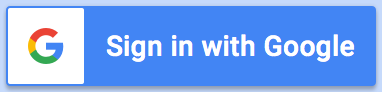
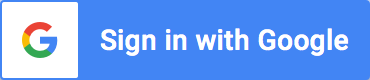
final changes started

diff --git a/src/components/admin/AdminHome.js b/src/components/admin/AdminHome.js
@@ -6,7 +6,7 @@ import Grid from '@material-ui/core/Grid';
 import MultiAxisLine from './charts/UserLogChart.js';
 import PieChart from './charts/TotalRegChart';
 import VerticalBar from './charts/NewRegChart';
-import {BrowserRouter as Router, Route, Switch} from 'react-router-dom';
+import {BrowserRouter as Router, Route, Switch, useRouteMatch ,useLocation} from 'react-router-dom';
 //import { Link } from 'react-router-dom';
 import UserAccManage from './UserAccManage.js';
 import AdvManage from './AdvManage.js';
@@ -18,6 +18,7 @@ import Moderators from './Moderators.js';
 const useStyles = makeStyles((theme) => ({
     root: {
         flexGrow: 1,
+        marginTop: '70px',
         margin: '20px 30px'
     },
     paper: {
@@ -48,7 +49,11 @@ const useStyles = makeStyles((theme) => ({
 }))
 
 function AdminHome() {
+    let match = useRouteMatch();
+    console.log(match)
 
+    let location = useLocation()
+    console.log(location)
     /* const [state, setstate] = useState("");
 
     useEffect(()=>{
@@ -71,6 +76,12 @@ function AdminHome() {
                     <Route path="/components/admin/AdvManage" component={AdvManage}/>
                     <Route path="/components/admin/Moderators" component={Moderators}/>
                 </Switch>
+                {/* <Switch>
+                    <Route path={`${match.path}/`} exact component={AdminHomePage}/>
+                    <Route path={`${match.path}/UserAccManage`} component={UserAccManage}/>
+                    <Route path={`${match.path}/AdvManage`} component={AdvManage}/>
+                    <Route path={`${match.path}/Moderators`} component={Moderators}/>
+                </Switch> */}
             </div>
         </Router>
     );
@@ -78,32 +89,16 @@ function AdminHome() {
 
 const AdminHomePage = () => (
     <div>
-        <center>
+        {/* <center>
             <div className={useStyles().titlecontainer}>
                 <h2 className={useStyles().title}>EduPulse Dashboard</h2>
             </div>
-        </center>
+        </center> */}
         <div className={useStyles().root}>
             <Grid container spacing={3}>
-                <Grid item xs={12} md={9}>
+                <Grid item xs={12} md={12}>
                     <Paper className={useStyles().paper}>
                         <MultiAxisLine/>
-                    </Paper>
-                </Grid>
-                <Grid item xs={12} md={3}>
-                    <Paper className={useStyles().paper} style={{height: '50vh'}}>
-                        <div className={useStyles().userstat}>
-                            <h2 className={useStyles().number}>235</h2>
-                            <h3>Total Live Users</h3>
-                        </div>
-                        <div className={useStyles().userstat} style={{border: '2px solid rgb(255, 99, 132)'}}>
-                            <h2 className={useStyles().number}>210</h2>
-                            <h4>Academic Users</h4>
-                        </div>
-                        <div className={useStyles().userstat} style={{border: '2px solid rgb(54, 162, 235)'}}>
-                            <h2 className={useStyles().number}>120</h2>
-                            <h4>General Users</h4>
-                        </div>
                     </Paper>
                 </Grid>
                 <Grid item xs={12} md={4}>

diff --git a/src/components/admin/AdminNav.js b/src/components/admin/AdminNav.js
@@ -12,7 +12,7 @@ import MenuIcon from '@material-ui/icons/Menu';
 //import AccountCircle from '@material-ui/icons/AccountCircle';
 //import NotificationsIcon from '@material-ui/icons/Notifications';
 import Img1 from '../../assets/EduPulse.png';
-
+import Button from '@material-ui/core/Button';
 import clsx from 'clsx';
 import Drawer from '@material-ui/core/Drawer';
 import List from '@material-ui/core/List';
@@ -26,7 +26,6 @@ import AssignmentIcon from '@material-ui/icons/Assignment';
 //import { BrowserRouter as Router,Switch,Route } from 'react-router-dom';
 import {Link} from 'react-router-dom';
 import PersonIcon from '@material-ui/icons/Person';
-import {GoogleLogOut} from '../OAuth/googleAuth'
 
 const useStyles = makeStyles((theme) => ({
     root: {
@@ -144,7 +143,7 @@ export default function AdminNav() {
                 </Link>
 
                 <Link to="/components/admin/UserAccManage" style={{textDecoration: 'none', color: 'black'}}>
-                    <ListItem button key={'User Accounts'}>
+                    <ListItem button key={'User Accounts'} onClick={()=>{}}>
                         <ListItemIcon><SupervisorAccountIcon/></ListItemIcon>
                         <ListItemText primary={'User Accounts'}/>
                     </ListItem>
@@ -167,10 +166,14 @@ export default function AdminNav() {
             </List>
             <Divider/>
             <center>
-                {/* <Link to="/" style={{ textDecoration: 'none',color:'black' }}>
-        <Button variant="contained" color="secondary" style={{marginTop:'50vh'}}>Logout</Button>
-        </Link> */}
-                <GoogleLogOut/>
+                
+                <Button variant="outlined" color="error" onClick={(e)=>{
+                    e.preventDefault();
+                    window.location.href='http://localhost:9000/openid/logout'
+                    }}>
+                    Logout
+                </Button>
+                
             </center>
 
         </div>

diff --git a/src/components/navbar.js b/src/components/navbar.js
@@ -16,10 +16,9 @@ import Backdrop from '@material-ui/core/Backdrop';
 import {animated, useSpring} from 'react-spring'; // web.cjs is required for IE 11 support
 import {Icon} from '@material-ui/core';
 import AccountCircleIcon from '@material-ui/icons/AccountCircle';
-import {GoogleAuth} from './OAuth/googleAuth'
-import MsAuth from './OAuth/msAuth.js'
 import googleNormal from '../assets/buttons/google_signin_normal.png';
 import Msbutton from '../assets/buttons/ms-button.png';
+import googleFocus from '../assets/buttons/google_signin_pressed.png';
 
 import config from '../config/config'
 
@@ -256,7 +255,10 @@ export default function Navigationbar() {
                                         backgroundColor: '#DFDAE8',
                                         cursor: "pointer"
                                     }}>
-                                <img src={googleNormal} alt="google button" style={{width: '218px'}}/>
+                                <img src={googleNormal} alt="google button" style={{width: '218px'}}
+                                    onMouseOver={e => (e.currentTarget.src = googleFocus)}
+                                    onMouseOut={e => (e.currentTarget.src = googleNormal)}
+                                />
                             </button>
 
                             <button onClick={()=>{window.location.href = config.applicationRoot + '/openid/azure'}}

diff --git a/src/components/posts.js b/src/components/posts.js
@@ -22,8 +22,6 @@ import {animated, useSpring} from 'react-spring'; // web.cjs is required for IE 
 import Img2 from '../assets/EduPulse.png';
 import {Icon} from '@material-ui/core';
 import AccountCircleIcon from '@material-ui/icons/AccountCircle';
-import {GoogleAuth} from './OAuth/googleAuth';
-import MsAuth from './OAuth/msAuth.js';
 import axios from 'axios';
 import {v4 as uuidv4} from 'uuid';
 import Postviewer from './postviewer';
@@ -333,8 +331,7 @@ export default function Posts() {
                         </Icon>
 
                         <div className={classes.authicons}>
-                            <GoogleAuth/>
-                            <MsAuth/>
+                            
                         </div>
                     </div>
                 </Fade>

diff --git a/src/components/Joincard.js b/src/components/Joincard.js
@@ -7,8 +7,6 @@ import Backdrop from '@material-ui/core/Backdrop';
 import {animated, useSpring} from 'react-spring'; // web.cjs is required for IE 11 support
 import Img2 from '../assets/EduPulse.png';
 import AccountCircleIcon from '@material-ui/icons/AccountCircle';
-import {GoogleAuth} from './OAuth/googleAuth'
-import MsAuth from './OAuth/msAuth.js'
 
 const useStyles = makeStyles((theme) => ({
     card: {
@@ -147,8 +145,7 @@ function Joincard() {
                         </Icon>
 
                         <div className={classes.authicons}>
-                            <GoogleAuth/>
-                            <MsAuth/>
+                            
                         </div>
                     </div>
                 </Fade>

diff --git a/public/index.html b/public/index.html
@@ -9,12 +9,11 @@
             name="description"
             content="Web site created using create-react-app"
     />
-    <link rel="apple-touch-icon" href="%PUBLIC_URL%/logo192.png"/>
     <!--
       manifest.json provides metadata used when your web app is installed on a
       user's mobile device or desktop. See https://developers.google.com/web/fundamentals/web-app-manifest/
     -->
-    <link rel="manifest" href="%PUBLIC_URL%/manifest.json"/>
+    <!-- <link rel="manifest" href="%PUBLIC_URL%/manifest.json"/> -->
     <!--
       Notice the use of %PUBLIC_URL% in the tags above.
       It will be replaced with the URL of the `public` folder during the build.

diff --git a/src/components/admin/charts/UserLogChart.js b/src/components/admin/charts/UserLogChart.js
@@ -74,12 +74,12 @@ function MultiAxisLine() {
     console.log(generalArray)
 
     return (
-        <div>
+        <>
             <div className='header'>
                 <h2 className='title'>Site Visits Last 7 Days</h2>
             </div>
 
-            <div className="chart-container" style={{position: "relative", height: "40vh", width: "68vw"}}>
+            <div className="chart-container">
                 <Line data={
                     {
                         labels: daysArray,
@@ -106,7 +106,7 @@ function MultiAxisLine() {
                     }
                 } options={options}/>
             </div>
-        </div>
+        </>
 
     )
 }

diff --git a/src/components/admin/UserAccManage.js b/src/components/admin/UserAccManage.js
@@ -65,14 +65,14 @@ function UserAccManage() {
     const url = APIURL("accreports");
 
     useEffect(() => {
-        axios.get(url)
+            axios.get(url)
             .then(function (res) {
                 console.log(res.data)
                 setReports(res.data)
+                
             })
     }, [url])
     const rows = reports.map(x => createData(x._id._id,x._id.name, x._id.role,x._id.university));
-
 
     return (
         <div>
